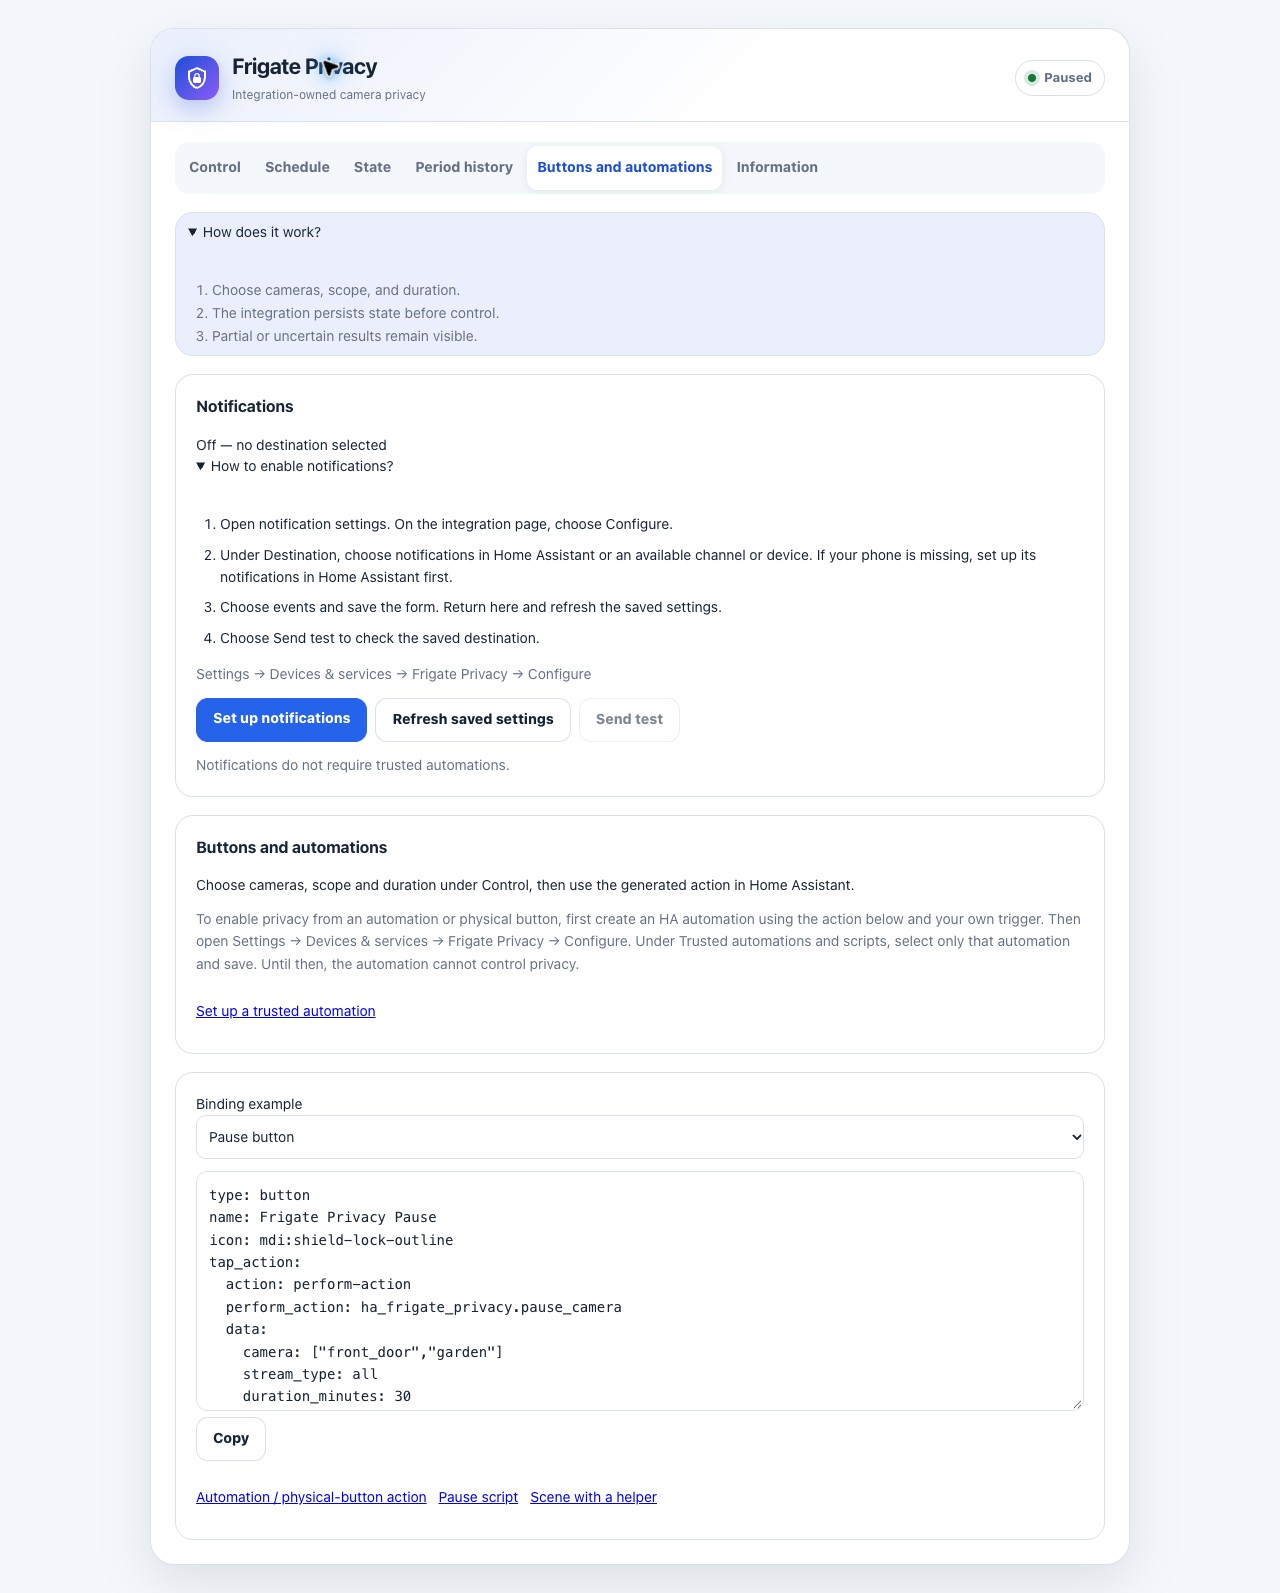
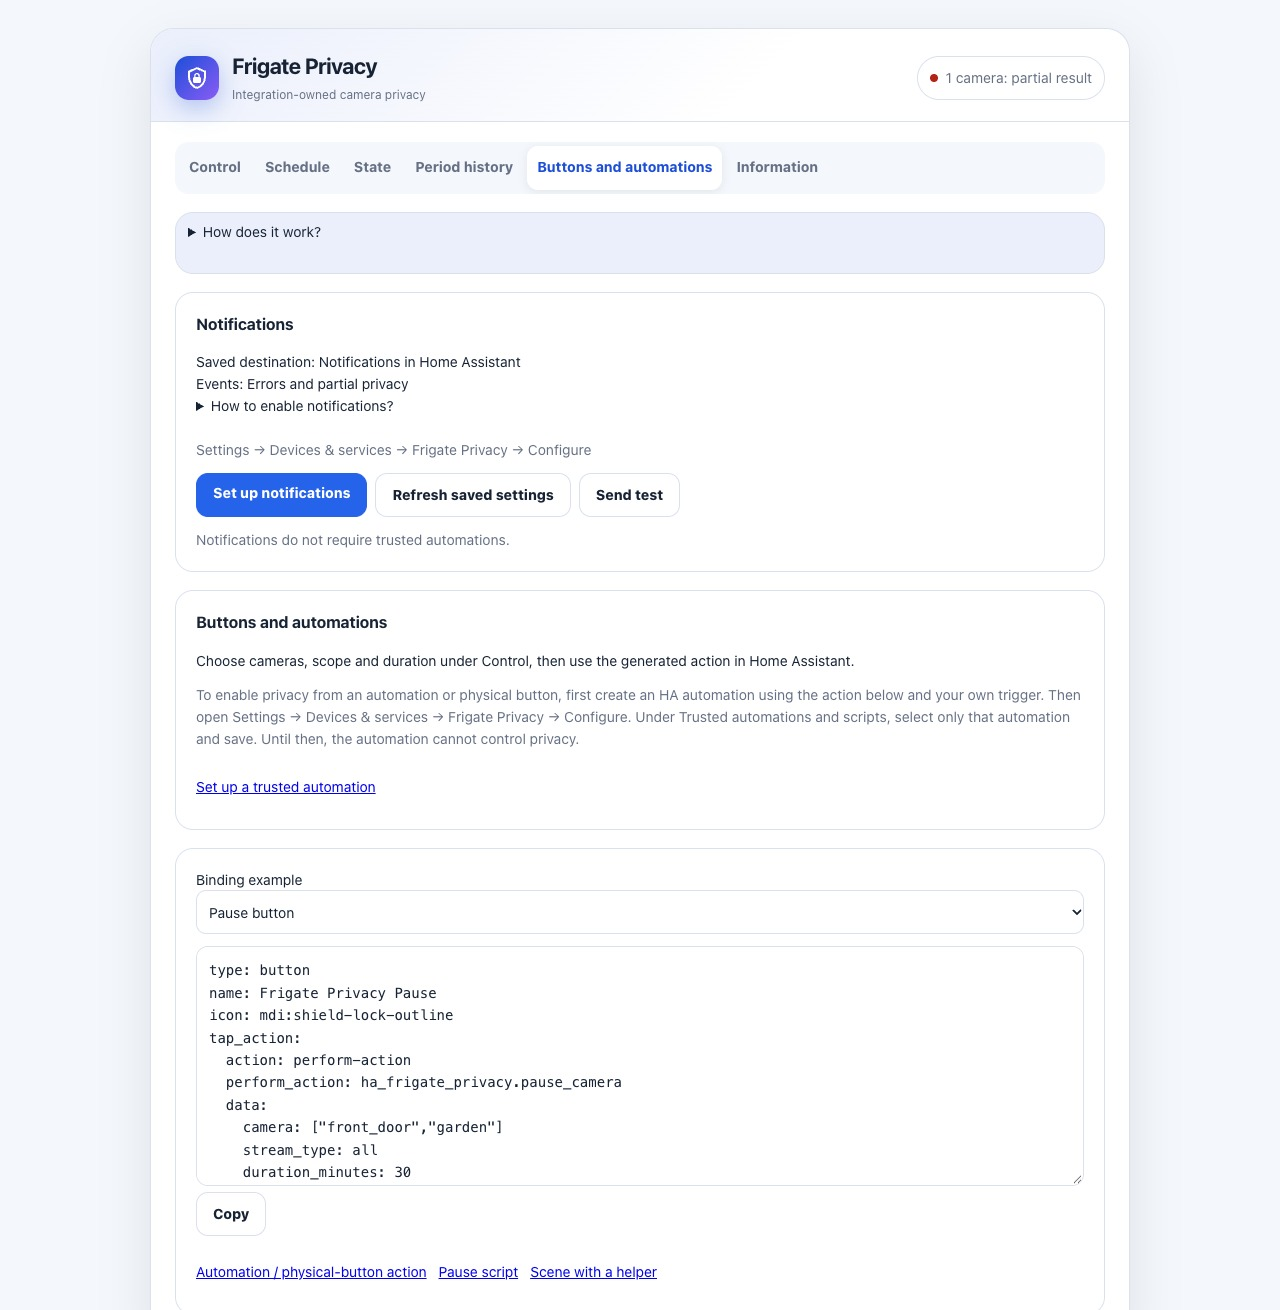
Refresh Frigate synthetic screenshot evidence

diff --git a/docs/screenshots/_harness.html b/docs/screenshots/_harness.html
@@ -329,5 +329,19 @@ const hass={language,themes:{darkMode:theme==='dark'},config:{time_zone:'Europe/
   if(message.type==='ha_frigate_privacy/get_periods')return {...structuredClone(periods),days:message.days};
   throw new Error('Synthetic documentation does not control cameras');
  }};
-const card=document.getElementById('card');card.setConfig({type:'custom:ha-frigate-privacy',show_support:false,compact:params.get('compact')==='1',cameras:params.get('compact')==='1'?['garden']:undefined});card.hass=hass;
+if(params.get('coverage')==='1of3'){
+  cameras[0].stream_coverage={status:'best_effort',count:1};
+  cameras[1].stream_coverage={status:'best_effort',count:3};
+  periods.periods=[{
[1 lines of base64/hex data omitted]
+    started_at:'2026-10-13T14:00:00Z',ended_at:null,planned_ends_at:'2026-10-13T14:15:00Z',observed_at:'2026-10-13T14:00:02Z',
+    phase:'partial',source:'manual',reason:'pause_incomplete',end_reason:null,verified_restore:false,duration_seconds:null,
+    channels:[{channel:'detection',target:'switch.front_door_detect',pause_outcome:'paused',restore_outcome:'unknown',restore_expected:true,observed_state:'off',outcomes_seen:['paused']}],
+    unknown_channels:[
+      {channel:'unknown',target:'switch.front_door_recordings',pause_outcome:'pending',restore_outcome:'unknown',restore_expected:true,observed_state:'unknown',outcomes_seen:[]},
+      {channel:'unknown',target:'camera.front_door',pause_outcome:'pending',restore_outcome:'unknown',restore_expected:true,observed_state:'unknown',outcomes_seen:[]}
+    ],evidence_scope:'transition_intent'
+  }];
+}
+const card=document.getElementById('card');card.setConfig({type:'custom:ha-frigate-privacy',show_support:false,compact:params.get('compact')==='1',default_tab:undefined,cameras:params.get('compact')==='1'?['garden']:undefined});card.hass=hass;
 </script></body></html>

diff --git a/tests/test_screenshot_contract.py b/tests/test_screenshot_contract.py
@@ -43,6 +43,8 @@ def test_public_screenshots_are_source_bound_and_synthetic() -> None:
 
     assert _sha256(source) == manifest["source"]["sha256"]
     assert _sha256(harness) == manifest["harness"]["sha256"]
+    assert manifest["capture"]["captured_source"] == manifest["source"]
+    assert manifest["capture"]["captured_harness"] == manifest["harness"]
     assert 'data-fixture="privacy-safe-generic-home"' in harness.read_text()
     assert manifest["privacy"] == {
         "synthetic_only": True,
@@ -54,3 +56,7 @@ def test_public_screenshots_are_source_bound_and_synthetic() -> None:
         path = ROOT / image["path"]
         assert _sha256(path) == image["sha256"]
         assert _image_dimensions(path) == (image["width"], image["height"])
+
+    coverage = next(image for image in manifest["images"] if image["path"].endswith("card-stream-coverage-light.jpg"))
+    assert coverage["width"] == 1280
+    assert "stream_coverage" in manifest["capture"]["review"]

diff --git a/README.md b/README.md
@@ -212,6 +212,10 @@ or household data.*
 
 ![Recorded privacy periods and restoration status](docs/screenshots/card-history-light.jpg)
 
+The stream coverage detail shows the best-effort number of related streams and the RTSP/go2rtc limitation. It does not count active connections.
+
+![Synthetic stream coverage detail](docs/screenshots/card-stream-coverage-light.jpg)
+
 ![Notification setup with saved settings](docs/screenshots/card-notifications-light.jpg)
 
 [Polski: ustawienia powiadomień](docs/screenshots/card-notifications-pl.jpg)
